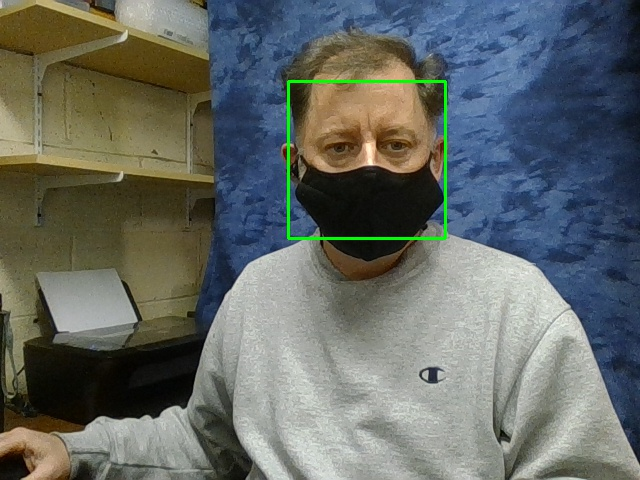
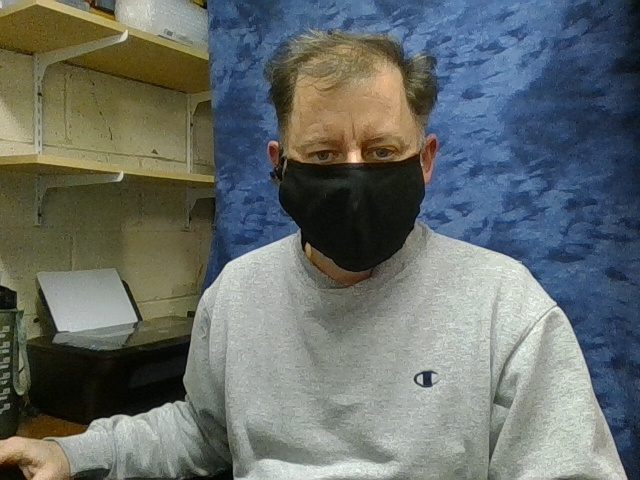
removed rect on faces

Changed region(s): [[0.0, 0.0312, 1.0, 1.0]]

diff --git a/webcam_capture_save_img.py b/webcam_capture_save_img.py
@@ -30,8 +30,8 @@ while True:
     )
 
     # Draw a rectangle around the faces
-    for (x, y, w, h) in faces:
-        picframe = cv2.rectangle(frame, (x, y), (x+w, y+h), (0, 255, 0), 2)
+    #for (x, y, w, h) in faces:
+    #    picframe = cv2.rectangle(frame, (x, y), (x+w, y+h), (0, 255, 0), 2)
         #cv2.rectangle(frame, (x, y), (x+w, y+h), (0, 255, 0), 2)
 
     if anterior != len(faces):
@@ -40,7 +40,7 @@ while True:
 
     key = cv2.waitKey(1)
     if key == ord('s'): 
-            cv2.imwrite(filename='saved_img.jpg', img=picframe)
+            cv2.imwrite(filename='saved_img.jpg', img=frame)
             video_capture.release()
             img_new = cv2.imread('saved_img.jpg', cv2.IMREAD_GRAYSCALE)
             img_new = cv2.imshow("Captured Image", img_new)
@@ -65,7 +65,7 @@ while True:
             print("Program ended.")
             cv2.destroyAllWindows()
             break
-    # Display the resulting frame
+    # Display the resulting frames
     cv2.imshow('Video', frame)
 
 
